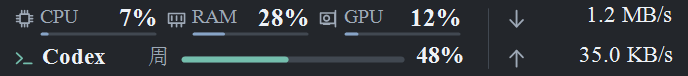
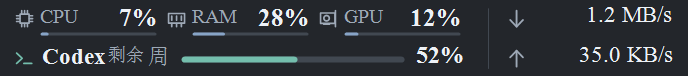
Show remaining Codex quota with matching bars and warnings

Changed region(s): [[0.1526, 0.6053, 0.2137, 0.8421], [0.5799, 0.6053, 0.641, 0.8421], [0.3968, 0.7368, 0.4578, 0.8421]]

diff --git a/使用说明.html b/使用说明.html
@@ -2,12 +2,12 @@
 <html lang="zh-CN"><meta charset="utf-8"><meta name="viewport" content="width=device-width,initial-scale=1">
 <title>任务栏状态条 · 使用说明</title>
 <style>body{font-family:"Times New Roman",SimSun,serif;max-width:850px;margin:40px auto;padding:0 24px;color:#222;line-height:1.8}h1,h2,h3,button,table{font-family:"Times New Roman",SimSun,serif}h1{font-size:28px}h2{font-size:21px;margin-top:30px}code{font-family:"Times New Roman",SimSun,serif;background:#f2f4f6;padding:2px 5px}a{color:#175a9d}table{border-collapse:collapse;width:100%}td,th{border:1px solid #ddd;text-align:left;padding:8px 12px}.note{background:#eef5fb;padding:12px 18px;border-left:3px solid #4b79a3}</style>
-<h1>任务栏状态条</h1><p>Windows 10/11 64 位 · 免安装 · 版本 1.2</p>
+<h1>任务栏状态条</h1><p>Windows 10/11 64 位 · 免安装 · 版本 1.2.1</p>
 <div class="note">解压压缩包后，双击 <code>CodexTaskbarMonitor.exe</code>。程序会在主屏任务栏通知区左侧显示两行数据。开机启动默认关闭。</div>
 <h2>显示与操作</h2>
-<table><tr><th>操作</th><th>作用</th></tr><tr><td>上行</td><td>CPU、物理内存和选中 GPU 的使用率，每秒刷新。</td></tr><tr><td>下行</td><td>Codex 额度的已用百分比。按接口实际返回的周期显示；周额度不等同于 5 小时额度。</td></tr><tr><td>鼠标悬停</td><td>查看内存容量、GPU 名称、显存、各额度周期的重置时间和最后更新时间。时间按本机时区显示。</td></tr><tr><td>左键拖动</td><td>在当前任务栏空白范围内调整位置，松开后记住。</td></tr><tr><td>右键</td><td>手动刷新额度、切换 GPU、恢复自动位置、选择 Codex 路径、登录、设置开机启动或退出。</td></tr><tr><td>托盘入口</td><td>小窗隐藏时，仍可从系统托盘图标打开详情与菜单。图标可能收在系统的“隐藏图标”区域。</td></tr></table>
+<table><tr><th>操作</th><th>作用</th></tr><tr><td>上行</td><td>CPU、物理内存和选中 GPU 的使用率，每秒刷新。</td></tr><tr><td>下行</td><td>Codex 额度的剩余百分比。接口已用 54% 时显示剩余 46%。按接口实际返回的周期显示；周额度不等同于 5 小时额度。</td></tr><tr><td>鼠标悬停</td><td>查看内存容量、GPU 名称、显存、各额度周期的剩余比例、重置时间和最后更新时间。时间按本机时区显示。</td></tr><tr><td>左键拖动</td><td>在当前任务栏空白范围内调整位置，松开后记住。</td></tr><tr><td>右键</td><td>手动刷新额度、切换 GPU、恢复自动位置、选择 Codex 路径、登录、设置开机启动或退出。</td></tr><tr><td>托盘入口</td><td>小窗隐藏时，仍可从系统托盘图标打开详情与菜单。图标可能收在系统的“隐藏图标”区域。</td></tr></table>
 <p>小窗采用圆角、等宽指标列和细进度条，随系统明暗主题调整。右侧两行分别用向下和向上箭头显示下载、上传网速，每秒刷新，按 B/s、KB/s、MB/s 等单位自动换算（每级 1024）。悬停查看当前采集网卡；每次只采一个主联网接口，避免将物理网卡与 VPN 叠加。首次采样、断网或切换接口时显示 <code>--</code>，稳定后的真实零流量显示 <code>0 B/s</code>。</p>
-<p>进度条表示已用比例，缺失数据保留空轨道。任务栏隐藏、主屏全屏显示或空白空间不足时，小窗收起，保留托盘入口。程序不修改任务栏或 Explorer；小窗是独立窗口。</p>
+<p>CPU、内存和 GPU 的进度条表示使用率；Codex 进度条表示剩余额度。Codex 剩余不超过 10% 时提示危险，超过 10% 且不超过 25% 时提示警告；缺失数据保留空轨道。任务栏隐藏、主屏全屏显示或空白空间不足时，小窗收起，保留托盘入口。程序不修改任务栏或 Explorer；小窗是独立窗口。</p>
 <h2>Codex 额度</h2>
 <p>每位用户使用自己安装并登录的官方 Codex。程序自动查找官方桌面附带 CLI、PATH 中的 CLI 及常见安装位置；也可在菜单手动选择 <code>codex.exe</code>。不包含 Codex 运行时、账号或登录凭据。</p>
 <ol><li>没有安装 Codex 时，先阅读 <a href="https://learn.chatgpt.com/docs/cli">官方 CLI 安装说明</a>，或安装官方 Codex 桌面应用。</li><li>使用 ChatGPT 账号登录 Codex。菜单“登录 Codex”会启动官方登录流程；也可自行在终端运行 <code>codex login</code>。</li><li>回到菜单选择“刷新 Codex 额度”。硬件监控不依赖此登录。</li></ol>

diff --git a/tools/UiIntegrationProbe.cs b/tools/UiIntegrationProbe.cs
@@ -37,7 +37,7 @@ public static class UiIntegrationProbe
         };
         Assembly productAssembly = Assembly.LoadFrom(product);
         Version version = productAssembly.GetName().Version;
-        reportDirectory = Path.Combine(projectRoot, "validation", "v" + version.Major + "." + version.Minor);
+        reportDirectory = Path.Combine(projectRoot, "validation", "v" + version.Major + "." + version.Minor + (version.Build > 0 ? "." + version.Build : String.Empty));
         Console.WriteLine("Product=" + product);
         using (SHA256 sha = SHA256.Create())
         using (FileStream stream = File.OpenRead(product))
@@ -190,6 +190,7 @@ public static class UiIntegrationProbe
             form.Hide();
         }
         RunPainterMatrix();
+        VerifyRemainingQuota();
         Console.WriteLine("Failures=" + failures);
         return failures == 0 ? 0 : 1;
     }
@@ -265,9 +266,9 @@ public static class UiIntegrationProbe
     {
         string output = reportDirectory;
         Directory.CreateDirectory(output);
-        string[] states = { "single", "dual", "unknown", "stale-dual", "missing", "loading", "net-zero", "net-fast" };
+        string[] states = { "single", "dual", "unknown", "stale-dual", "missing", "loading", "net-zero", "net-fast", "quota-57-28", "quota-low", "quota-empty", "quota-invalid" };
         int cellWidth = 540, cellHeight = 85;
-        using (Bitmap sheet = new Bitmap(cellWidth * 2, cellHeight * 16))
+        using (Bitmap sheet = new Bitmap(cellWidth * 2, cellHeight * 24))
         using (Graphics grid = Graphics.FromImage(sheet))
         using (Font captionFont = new Font("Times New Roman", 12, FontStyle.Regular, GraphicsUnit.Pixel))
         using (Brush captionBrush = new SolidBrush(Color.FromArgb(35, 40, 48)))
@@ -280,6 +281,7 @@ public static class UiIntegrationProbe
             bool allNetworkRowsPainted = true;
             bool allNetworkGaps = true;
             bool legacyPanelUnchanged = true;
+            bool remainingMarkerFits = true;
             float smallestGap = Single.MaxValue;
             float smallestNetworkGap = Single.MaxValue;
             foreach (int dpi in new int[] { 96, 144 })
@@ -297,11 +299,15 @@ public static class UiIntegrationProbe
                             quota.Buckets.Clear();
                             network.DownloadBytesPerSecond = null; network.UploadBytesPerSecond = null;
                         }
-                        if (state == "stale-dual") { quota.IsStale = true; quota.Status = CodexStatus.Error; }
+                        if (state == "stale-dual") { quota.IsStale = true; quota.Status = CodexStatus.Error; quota.Buckets[0].Windows[0].UsedPercent = 43; quota.Buckets[0].Windows[1].UsedPercent = 72; }
                         if (state == "missing") { quota.Buckets.Clear(); quota.Status = CodexStatus.Missing; }
                         if (state == "loading") { quota = null; hardware = null; network = null; }
                         if (state == "net-zero") { network.DownloadBytesPerSecond = 0; network.UploadBytesPerSecond = 0; }
                         if (state == "net-fast") { network.DownloadBytesPerSecond = 1024.0 * 1048576; network.UploadBytesPerSecond = 1023.95 * 1048576; }
+                        if (state == "quota-57-28") { quota.Buckets[0].Windows[0].UsedPercent = 43; quota.Buckets[0].Windows[1].UsedPercent = 72; }
+                        if (state == "quota-low") { quota.Buckets[0].Windows[0].UsedPercent = 95; quota.Buckets[0].Windows[1].UsedPercent = 80; }
+                        if (state == "quota-empty") { quota.Buckets[0].Windows[0].UsedPercent = 100; quota.Buckets[0].Windows[1].UsedPercent = 100; }
+                        if (state == "quota-invalid") { quota.Buckets[0].Windows[0].UsedPercent = Double.NaN; quota.Buckets[0].Windows[1].UsedPercent = Double.PositiveInfinity; }
                         using (Bitmap bitmap = new Bitmap((int)(CompactPainter.PreferredWidthDip * s), (int)(CompactPainter.PreferredHeightDip * s)))
                         using (Graphics graphics = Graphics.FromImage(bitmap))
                         {
@@ -334,6 +340,8 @@ public static class UiIntegrationProbe
                             float gap = 58 * s - MixedText.Measure(graphics, "RAM", 10 * s).Width - BoldWidth(graphics, "100%", 12.5f * s);
                             smallestGap = Math.Min(smallestGap, gap / s);
                             allMetricGaps &= gap >= 3.5f * s;
+                            remainingMarkerFits &= 54 * s - (21 * s + BoldWidth(graphics, "Codex", 11.5f * s)) >= 1 * s &&
+                                54 * s + MixedText.Measure(graphics, "剩余", 9 * s).Width <= 73 * s;
                             int column = frame % 2, row = frame / 2;
                             grid.DrawString(dpi + " DPI / " + (dark ? "dark" : "light") + " / " + state, captionFont, captionBrush,
                                 column * cellWidth + 10, row * cellHeight + 4);
@@ -341,12 +349,13 @@ public static class UiIntegrationProbe
                             frame++;
                         }
                     }
-            Check("CompactPainter 32-case matrix leaves all outer edges clear", allEdgesClear);
-            Check("CompactPainter 32-case matrix paints both original rows", allRowsPainted);
+            Check("CompactPainter 48-case matrix leaves all outer edges clear", allEdgesClear);
+            Check("CompactPainter 48-case matrix paints both original rows", allRowsPainted);
             Check("Worst-case metric labels and bold values keep readable separation", allMetricGaps);
             Check("Network download and upload both paint independently of Codex state", allNetworkRowsPainted);
             Check("Network value and arrow retain at least 4DIP separation", allNetworkGaps);
             Check("Original 240DIP panel remains pixel-identical in wide and legacy draws", legacyPanelUnchanged);
+            Check("Remaining marker stays separated from Codex and cycle labels at both DPIs", remainingMarkerFits);
             Check("Network unknown and invalid values are not reported as measured zero", DisplayText.Speed(null) == "--" &&
                 DisplayText.Speed(Double.NaN) == "--" && DisplayText.Speed(Double.PositiveInfinity) == "--" && DisplayText.Speed(-1) == "--");
             Check("Network formatter scales numeric values into B KB MB and GB per second", DisplayText.Speed(0) == "0 B/s" &&
@@ -358,6 +367,96 @@ public static class UiIntegrationProbe
             sheet.Save(path, System.Drawing.Imaging.ImageFormat.Png);
             Console.WriteLine("PainterMatrix=" + path);
         }
+    }
+
+    private static void VerifyRemainingQuota()
+    {
+        Check("Quota conversion displays 57 remaining for 43 used and clamps valid bounds", DisplayText.RemainingPercent(43) == 57 &&
+            DisplayText.RemainingPercent(0) == 100 && DisplayText.RemainingPercent(100) == 0 &&
+            DisplayText.RemainingPercent(-5) == 100 && DisplayText.RemainingPercent(110) == 0);
+        Check("Unknown quota values remain unknown rather than becoming 100 remaining", !DisplayText.RemainingPercent(null).HasValue &&
+            !DisplayText.RemainingPercent(Double.NaN).HasValue && !DisplayText.RemainingPercent(Double.PositiveInfinity).HasValue);
+
+        CodexSnapshot dual = MakeQuota(1);
+        dual.Buckets[0].Windows[0].UsedPercent = 43;
+        dual.Buckets[0].Windows[1].UsedPercent = 72;
+        string compact = DisplayText.CompactQuota(dual);
+        List<string> details = DisplayText.Details(null, null, dual, null);
+        Check("Compact text and details identify 57 and 28 as remaining per cycle", compact.Contains("剩余") && compact.Contains("57%") && compact.Contains("28%") &&
+            !compact.Contains("43%") && !compact.Contains("72%") && details.Exists(delegate(string line) { return line.Contains("5h剩余 57%"); }) &&
+            details.Exists(delegate(string line) { return line.Contains("周剩余 28%"); }) && !details.Exists(delegate(string line) { return line.Contains("已用"); }));
+
+        bool missingHasNoHundred = !DisplayText.CompactQuota(null).Contains("100%");
+        foreach (CodexStatus status in new CodexStatus[] { CodexStatus.Missing, CodexStatus.LoginRequired, CodexStatus.Error, CodexStatus.Ready })
+            missingHasNoHundred &= !DisplayText.CompactQuota(new CodexSnapshot { Status = status }).Contains("100%");
+        CodexSnapshot invalid = MakeQuota(1);
+        invalid.Buckets[0].Windows[0].UsedPercent = Double.NaN;
+        invalid.Buckets[0].Windows[1].UsedPercent = Double.PositiveInfinity;
+        missingHasNoHundred &= DisplayText.CompactQuota(invalid).Contains("--") && !DisplayText.CompactQuota(invalid).Contains("100%");
+        Check("Missing empty and invalid quota snapshots never fabricate 100 remaining", missingHasNoHundred);
+
+        bool progressCorrect = true;
+        bool warningCorrect = true;
+        foreach (int dpi in new int[] { 96, 144 })
+            foreach (bool dark in new bool[] { false, true })
+            {
+                float s = dpi / 96.0f;
+                MonitorPalette p = MonitorPalette.For(dark);
+                using (Bitmap full = RenderSingleQuota(0, false, s, dark))
+                using (Bitmap half = RenderSingleQuota(50, false, s, dark))
+                using (Bitmap empty = RenderSingleQuota(100, false, s, dark))
+                using (Bitmap unknown = RenderSingleQuota(Double.NaN, false, s, dark))
+                using (Bitmap low = RenderSingleQuota(95, false, s, dark))
+                using (Bitmap medium = RenderSingleQuota(80, false, s, dark))
+                using (Bitmap high = RenderSingleQuota(20, false, s, dark))
+                using (Bitmap stale = RenderSingleQuota(100, true, s, dark))
+                {
+                    Rectangle track = new Rectangle((int)(90 * s), (int)(28 * s), (int)(100 * s), Math.Max(1, (int)(3 * s)));
+                    Rectangle value = new Rectangle((int)(211 * s), (int)(22 * s), (int)(22 * s), (int)(13 * s));
+                    Rectangle staleValue = new Rectangle((int)(198 * s), (int)(22 * s), (int)(18 * s), (int)(13 * s));
+                    int fullPixels = ColorPixels(full, track, p.Accent);
+                    int halfPixels = ColorPixels(half, track, p.Accent);
+                    progressCorrect &= fullPixels > 0 && halfPixels > fullPixels * 0.25 && halfPixels < fullPixels * 0.75 &&
+                        FillPixels(empty, track, p) == 0 && FillPixels(unknown, track, p) == 0;
+                    warningCorrect &= ColorPixels(low, track, p.Danger) > 0 && ColorPixels(medium, track, p.Warning) > 0 &&
+                        ColorPixels(high, track, p.Accent) > 0 && ColorPixels(empty, value, p.Danger) > 0 &&
+                        ColorPixels(low, value, p.Danger) > 0 && ColorPixels(medium, value, p.Warning) > 0 &&
+                        ColorPixels(high, value, p.Foreground) > 0 && ColorPixels(stale, staleValue, p.Warning) > 0;
+                    Console.WriteLine("RemainingPixels dpi=" + dpi + "; dark=" + dark + "; full=" + fullPixels + "; half=" + halfPixels + "; empty=" + FillPixels(empty, track, p));
+                }
+            }
+        Check("Remaining progress fills high half and zero in the correct direction", progressCorrect);
+        Check("Low remaining warns including red zero digits and stale warning priority", warningCorrect);
+    }
+
+    private static Bitmap RenderSingleQuota(double used, bool stale, float scale, bool dark)
+    {
+        CodexSnapshot quota = MakeQuota(1);
+        quota.Buckets[0].Windows.RemoveAt(0);
+        quota.Buckets[0].Windows[0].UsedPercent = used;
+        quota.IsStale = stale;
+        if (stale) quota.Status = CodexStatus.Error;
+        Bitmap bitmap = new Bitmap((int)(240 * scale), (int)(38 * scale));
+        using (Graphics graphics = Graphics.FromImage(bitmap))
+            CompactPainter.Draw(graphics, new Rectangle(Point.Empty, bitmap.Size), scale, dark, false, MakeHardware(), null, quota);
+        return bitmap;
+    }
+
+    private static int FillPixels(Bitmap bitmap, Rectangle area, MonitorPalette palette)
+    {
+        return ColorPixels(bitmap, area, palette.Accent) + ColorPixels(bitmap, area, palette.Warning) + ColorPixels(bitmap, area, palette.Danger);
+    }
+
+    private static int ColorPixels(Bitmap bitmap, Rectangle area, Color expected)
+    {
+        int pixels = 0;
+        for (int y = area.Top; y < area.Bottom; y++)
+            for (int x = area.Left; x < area.Right; x++)
+            {
+                Color color = bitmap.GetPixel(x, y);
+                if (Math.Abs(color.R - expected.R) + Math.Abs(color.G - expected.G) + Math.Abs(color.B - expected.B) < 18) pixels++;
+            }
+        return pixels;
     }
 
     private static bool SamePixels(Bitmap wide, Bitmap legacy)
@@ -417,8 +516,8 @@ public static class UiIntegrationProbe
         for (int index = 0; index < buckets; index++)
         {
             QuotaBucket bucket = new QuotaBucket { Id = index == 0 ? "codex" : "test-" + index, Name = "Codex 测试额度 " + index };
-            bucket.Windows.Add(new QuotaWindow { UsedPercent = 100, WindowDurationMins = 300, ResetsAtUtc = DateTime.UtcNow.AddHours(1) });
-            bucket.Windows.Add(new QuotaWindow { UsedPercent = 100, WindowDurationMins = 10080, ResetsAtUtc = DateTime.UtcNow.AddDays(1) });
+            bucket.Windows.Add(new QuotaWindow { UsedPercent = 0, WindowDurationMins = 300, ResetsAtUtc = DateTime.UtcNow.AddHours(1) });
+            bucket.Windows.Add(new QuotaWindow { UsedPercent = 0, WindowDurationMins = 10080, ResetsAtUtc = DateTime.UtcNow.AddDays(1) });
             result.Buckets.Add(bucket);
         }
         return result;

diff --git a/src/Presentation.cs b/src/Presentation.cs
@@ -76,6 +76,13 @@ namespace CodexTaskbarMonitor
             return (value / 1073741824.0).ToString("0.0", CultureInfo.InvariantCulture) + " GiB";
         }
 
+        public static double? RemainingPercent(double? usedPercent)
+        {
+            if (!usedPercent.HasValue || Double.IsNaN(usedPercent.Value) ||
+                Double.IsInfinity(usedPercent.Value)) return null;
+            return 100 - Math.Max(0, Math.Min(100, usedPercent.Value));
+        }
+
         public static string Speed(double? bytesPerSecond)
         {
             if (!bytesPerSecond.HasValue || Double.IsNaN(bytesPerSecond.Value) ||
@@ -111,9 +118,9 @@ namespace CodexTaskbarMonitor
             QuotaBucket bucket = MainBucket(snapshot);
             if (bucket != null && bucket.Windows.Count > 0)
             {
-                StringBuilder text = new StringBuilder("Codex");
+                StringBuilder text = new StringBuilder("Codex 剩余");
                 foreach (QuotaWindow window in bucket.Windows)
-                    text.Append("  ").Append(WindowLabel(window.WindowDurationMins)).Append(" ").Append(Percent(window.UsedPercent));
+                    text.Append("  ").Append(WindowLabel(window.WindowDurationMins)).Append(" ").Append(Percent(RemainingPercent(window.UsedPercent)));
                 if (snapshot.IsStale || snapshot.Status != CodexStatus.Ready) text.Append("  旧");
                 return text.ToString();
             }
@@ -162,7 +169,7 @@ namespace CodexTaskbarMonitor
                     string name = !String.IsNullOrEmpty(bucket.Name) ? bucket.Name : bucket.Id;
                     foreach (QuotaWindow window in bucket.Windows)
                     {
-                        lines.Add(name + "  " + WindowLabel(window.WindowDurationMins) + "已用 " + Percent(window.UsedPercent));
+                        lines.Add(name + "  " + WindowLabel(window.WindowDurationMins) + "剩余 " + Percent(RemainingPercent(window.UsedPercent)));
                         lines.Add("重置：" + (window.ResetsAtUtc.HasValue ? window.ResetsAtUtc.Value.ToLocalTime().ToString("yyyy-MM-dd HH:mm:ss") : "未提供"));
                     }
                 }

diff --git a/src/VisualStyle.cs b/src/VisualStyle.cs
@@ -169,6 +169,7 @@ namespace CodexTaskbarMonitor
                 MixedText.Draw(g,text,11*s,stale?p.Warning:p.Muted,76*s,22*s,false);
                 return;
             }
+            MixedText.Draw(g,"剩余",9*s,p.Muted,54*s,23*s,false);
             float left=74*s,right=232*s;
             if(stale)
             {
@@ -189,14 +190,15 @@ namespace CodexTaskbarMonitor
                 if(labelWidth>maximumLabel) labelSize*=maximumLabel/labelWidth;
                 labelWidth=MixedText.Measure(g,label,labelSize).Width;
                 MixedText.Draw(g,label,labelSize,p.Muted,x,23*s,false);
-                string value=DisplayText.Percent(window.UsedPercent);
+                double? remaining=DisplayText.RemainingPercent(window.UsedPercent);
+                string value=DisplayText.Percent(remaining);
+                Color fill=stale?p.Warning:remaining<=10?p.Danger:remaining<=25?p.Warning:p.Accent;
                 float valueWidth=MixedText.Measure(g,value,12*s).Width+2*s;
-                VisualStyle.RightText(g,value,12*s,p.Foreground,x+cell,21*s,true);
+                VisualStyle.RightText(g,value,12*s,remaining<=25?fill:p.Foreground,x+cell,21*s,true);
                 float trackLeft=x+labelWidth+6*s;
                 float trackRight=x+cell-valueWidth-6*s;
-                Color fill=stale?p.Warning:window.UsedPercent>=90?p.Danger:window.UsedPercent>=75?p.Warning:p.Accent;
                 if(trackRight>trackLeft)
-                    VisualStyle.Progress(g,new RectangleF(trackLeft,28*s,trackRight-trackLeft,3*s),window.UsedPercent,p.Track,fill);
+                    VisualStyle.Progress(g,new RectangleF(trackLeft,28*s,trackRight-trackLeft,3*s),remaining,p.Track,fill);
             }
         }
 

diff --git a/docs/README-preview.cs b/docs/README-preview.cs
@@ -16,7 +16,7 @@ public static class ReadmePreview
     {
         string root = args.Length > 0 ? Path.GetFullPath(args[0]) :
             Path.GetFullPath(Path.Combine(Path.GetDirectoryName(Assembly.GetExecutingAssembly().Location), ".."));
-        string product = Path.Combine(root, "release", "CodexTaskbarMonitor-1.2.0-win-x64", "CodexTaskbarMonitor.exe");
+        string product = Path.Combine(root, "release", "CodexTaskbarMonitor-1.2.1-win-x64", "CodexTaskbarMonitor.exe");
         AppDomain.CurrentDomain.AssemblyResolve += delegate(object sender, ResolveEventArgs e)
         {
             return e.Name.StartsWith("CodexTaskbarMonitor,", StringComparison.Ordinal) ? Assembly.LoadFrom(product) : null;
@@ -33,6 +33,7 @@ public static class ReadmePreview
         GpuSnapshot gpu = new GpuSnapshot { Id = "synthetic-gpu", Name = "Example GPU", UtilizationPercent = 12 };
         CodexSnapshot quota = new CodexSnapshot { Status = CodexStatus.Ready, StatusMessage = "Synthetic example" };
         QuotaBucket bucket = new QuotaBucket { Id = "codex", Name = "Codex" };
+        // Preserve the server's used-percent fixture; the painter shows 52% remaining.
         bucket.Windows.Add(new QuotaWindow { UsedPercent = 48, WindowDurationMins = 10080 });
         quota.Buckets.Add(bucket);
         NetworkSnapshot network = new NetworkSnapshot { DownloadBytesPerSecond = 1258291, UploadBytesPerSecond = 35840, InterfaceName = "Example adapter" };

diff --git a/src/Program.cs b/src/Program.cs
@@ -38,9 +38,13 @@ namespace CodexTaskbarMonitor
             QuotaBucket bucket = new QuotaBucket { Id = "codex" };
             bucket.Windows.Add(new QuotaWindow { UsedPercent = 43, WindowDurationMins = 10080 });
             quota.Buckets.Add(bucket);
-            if (DisplayText.CompactQuota(quota) != "Codex  周 43%") return 3;
+            if (DisplayText.CompactQuota(quota) != "Codex 剩余  周 57%") return 3;
             quota.IsStale = true;
             if (!DisplayText.CompactQuota(quota).EndsWith("旧")) return 4;
+            if (DisplayText.RemainingPercent(54) != 46 || DisplayText.RemainingPercent(0) != 100 ||
+                DisplayText.RemainingPercent(100) != 0) return 5;
+            if (DisplayText.RemainingPercent(null).HasValue || DisplayText.RemainingPercent(Double.NaN).HasValue ||
+                DisplayText.RemainingPercent(Double.PositiveInfinity).HasValue) return 6;
             return 0;
         }
 

diff --git a/src/AssemblyInfo.cs b/src/AssemblyInfo.cs
@@ -2,5 +2,5 @@ using System.Reflection;
 [assembly: AssemblyTitle("Codex Taskbar Monitor")]
 [assembly: AssemblyDescription("Windows taskbar hardware and Codex quota monitor")]
 [assembly: AssemblyProduct("Codex Taskbar Monitor")]
-[assembly: AssemblyVersion("1.2.0.0")]
-[assembly: AssemblyFileVersion("1.2.0.0")]
+[assembly: AssemblyVersion("1.2.1.0")]
+[assembly: AssemblyFileVersion("1.2.1.0")]

diff --git a/README.md b/README.md
@@ -1,26 +1,27 @@
 # Codex Taskbar Monitor
 
-在 Windows 任务栏右侧查看 CPU、内存、GPU 使用率、实时下载／上传网速，以及 Codex 额度的**已用百分比**。
+在 Windows 任务栏右侧查看 CPU、内存、GPU 使用率、实时下载／上传网速，以及 Codex 额度的**剩余百分比**。
 
 [下载最新 Windows x64 免安装包](https://github.com/GuangyaoYin/codex-taskbar-monitor/releases/latest)
 
 浅色与深色界面。下图由程序绘制器生成，使用合成示例数据，不含私人账号信息。
 
-![浅色示例：CPU 7%、内存 28%、GPU 12%、Codex 周额度已用 48%，右侧显示下载和上传网速](docs/images/monitor-light.png)
+![浅色示例：CPU 7%、内存 28%、GPU 12%、Codex 周额度剩余 52%，右侧显示下载和上传网速](docs/images/monitor-light.png)
 
-![深色示例：CPU 7%、内存 28%、GPU 12%、Codex 周额度已用 48%，右侧显示下载和上传网速](docs/images/monitor-dark.png)
+![深色示例：CPU 7%、内存 28%、GPU 12%、Codex 周额度剩余 52%，右侧显示下载和上传网速](docs/images/monitor-dark.png)
 
 ## 功能
 
 - 上行显示 CPU、物理内存和选中 GPU 的使用率；支持切换 GPU。
 - 右侧双行显示下载、上传网速，每秒刷新并自动切换 B/s、KB/s、MB/s 等单位；悬停查看采集网卡。
-- 下行显示 Codex 返回的额度周期和已用比例，例如周额度或 5 小时额度。未返回的周期不会被补成 0%。
+- 下行显示 Codex 返回的额度周期及其剩余比例，例如周额度或 5 小时额度。接口已用 54% 时，界面显示剩余 46%；未返回的周期不会被补成 0%。
+- Codex 进度条表示剩余额度：剩余不超过 10% 时提示危险，超过 10% 且不超过 25% 时提示警告。CPU、内存和 GPU 的进度条仍表示使用率。
 - 悬停查看内存容量、GPU 名称与显存、额度重置时间及最后更新时间；时间按本机时区显示。
 - 独立浮窗贴靠主屏任务栏通知区左侧，可拖动并记住位置；保留托盘入口和右键菜单。
 - 正常情况下硬件与网速每秒刷新，额度每两分钟刷新。临时额度查询失败时保留并标记旧数据，按 15、30、60、120 秒恢复重试，详情显示下一次重试时刻。
 - 开机启动默认关闭，可由用户自行开启。
 
-v1.2 在等宽指标列、细线图标、进度条和圆角详情上增加了双向网速，随系统切换亮暗主题。中文使用宋体（SimSun），英文和数字使用 Times New Roman。
+v1.2.1 将 Codex 额度文字和进度条统一为剩余比例，保留双向网速、等宽指标列、细线图标和圆角详情，随系统切换亮暗主题。中文使用宋体（SimSun），英文和数字使用 Times New Roman。
 
 ## 使用
 
@@ -51,12 +52,12 @@ v1.2 在等宽指标列、细线图标、进度条和圆角详情上增加了双
 powershell -NoProfile -ExecutionPolicy Bypass -File .\build.ps1
 ```
 
-脚本使用系统的 .NET Framework x64 C# 编译器，生成 `release/CodexTaskbarMonitor-1.2.0-win-x64/` 和对应压缩包。代码使用 C# 5，无第三方 NuGet 依赖。
+脚本使用系统的 .NET Framework x64 C# 编译器，生成 `release/CodexTaskbarMonitor-1.2.1-win-x64/` 和对应压缩包。代码使用 C# 5，无第三方 NuGet 依赖。
 
 运行内置显示格式自检：
 
 ```powershell
-$check = Start-Process .\release\CodexTaskbarMonitor-1.2.0-win-x64\CodexTaskbarMonitor.exe `
+$check = Start-Process .\release\CodexTaskbarMonitor-1.2.1-win-x64\CodexTaskbarMonitor.exe `
     -ArgumentList '--self-test' -Wait -PassThru
 $check.ExitCode  # 0 表示通过
 ```
@@ -65,4 +66,4 @@ $check.ExitCode  # 0 表示通过
 
 ## English
 
-A portable Windows 10/11 x64 utility for CPU, RAM, GPU usage, live download/upload speed and Codex quota **used percentages**. It shows a compact, theme-aware window beside the primary taskbar, with reset times in hover details and a tray menu. Codex quota reading requires your own official Codex installation and ChatGPT login; no CLI or credentials are bundled. Windows 10 support has been checked with simulated taskbar geometry and still needs validation on a physical Windows 10 machine.
+A portable Windows 10/11 x64 utility for CPU, RAM, GPU usage, live download/upload speed and Codex quota **remaining percentages**. Codex text and progress bars show remaining capacity: 54% used becomes 46% remaining. At most 10% remaining is critical; above 10% and at most 25% remaining is a warning. Hardware bars continue to show usage. It shows a compact, theme-aware window beside the primary taskbar, with reset times in hover details and a tray menu. Codex quota reading requires your own official Codex installation and ChatGPT login; no CLI or credentials are bundled. Windows 10 support has been checked with simulated taskbar geometry and still needs validation on a physical Windows 10 machine.

diff --git a/docs/RELEASE-v1.2.1.md b/docs/RELEASE-v1.2.1.md
@@ -1,0 +1,10 @@
+Codex 额度改为显示剩余百分比，便于直接查看还能使用多少。
+
+- 状态条增加“剩余”标识，悬停详情与 Codex 进度条统一显示剩余额度：已用 54% 时显示剩余 46%。
+- Codex 剩余不超过 10% 时提示危险，超过 10% 且不超过 25% 时提示警告。
+- CPU、内存和 GPU 继续显示使用率；下载、上传网速继续实时刷新。
+- 缺失数据继续标为未知，旧数据继续标记过期；同步更新中英文说明与示例图。
+
+下载 `CodexTaskbarMonitor-1.2.1-win-x64.zip`，解压后运行。Codex 额度仍需用户自己的官方 Codex 安装和 ChatGPT 登录。
+
+Windows 10 尚未完成实机验证；其他系统及显卡的兼容范围沿用 v1.2.0。
